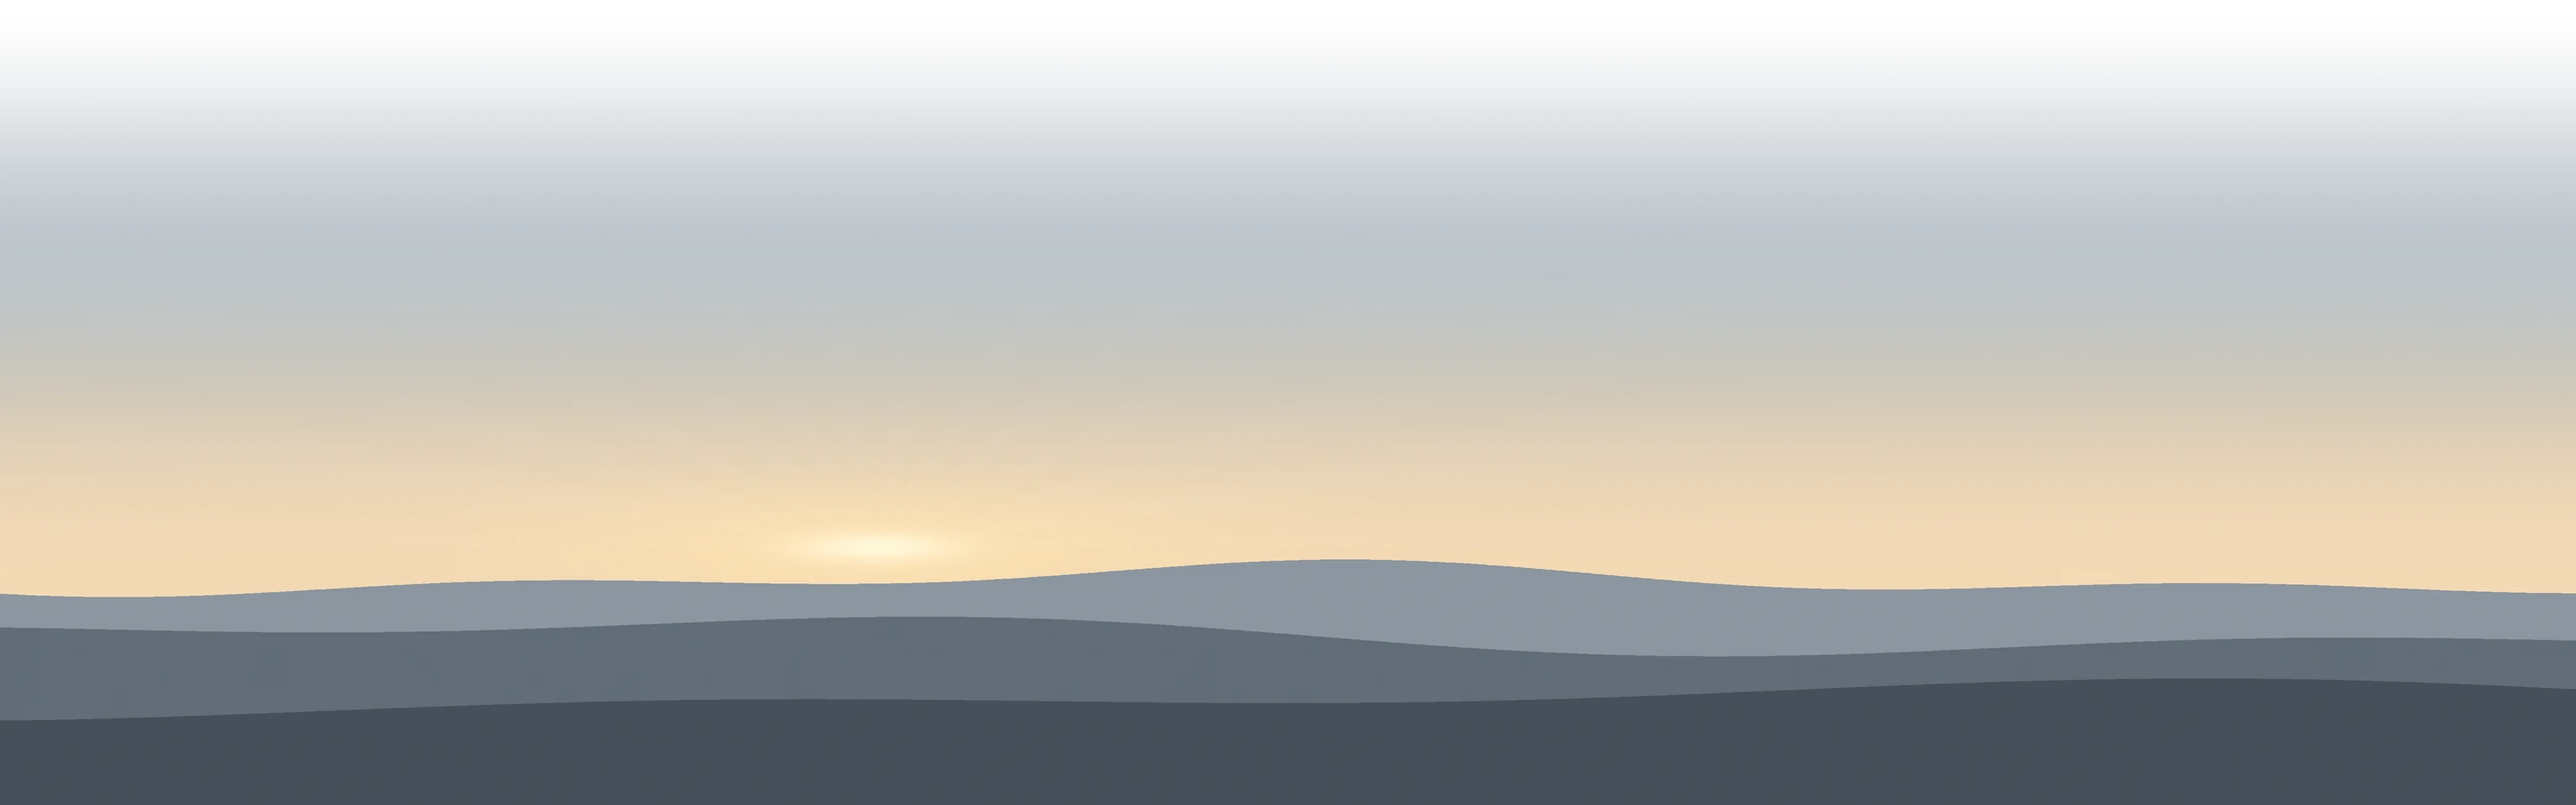
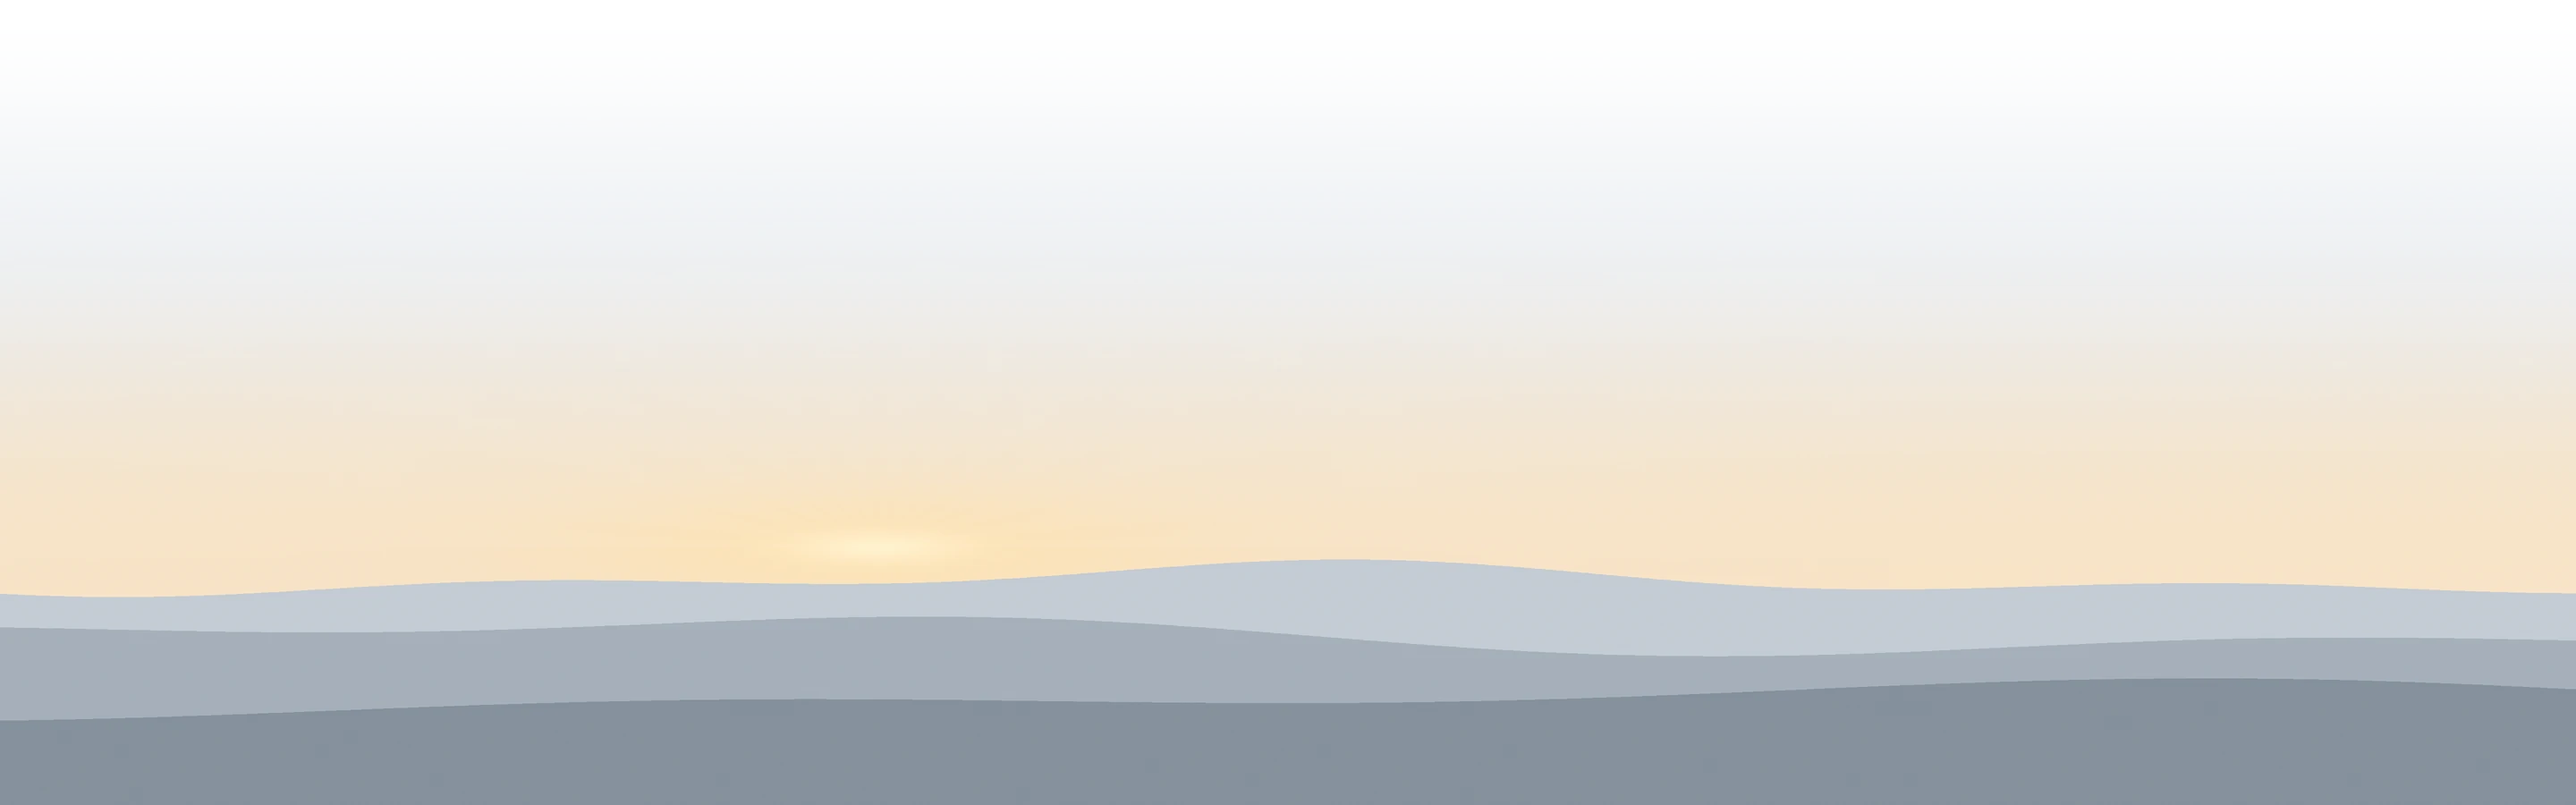
Hero light mode; new Wealth Guide image
Hero: flat light background, dark text, bordered inputs, no fog, gradients or dark panels. The
flag or sunrise art (sunrise re-rendered in a light palette) sits only behind the portrait and
fades out before the form. Thank-you portrait styles unchanged.
Wealth Guide: new image with The Faithful Steward bonus (kit-wealth-guide-v2.webp); migrate()
moves saved pages to it.

Claude-Session: https://claude.ai/code/session_01XCX3MvR2dkRhe8VonRWxub

diff --git a/src/template/styles/landing.css b/src/template/styles/landing.css
@@ -1622,48 +1622,78 @@
   color: rgba(255, 255, 255, 0.55);
 }
 
-/* ============ HERO: BRIGHT, SHARP, HIGH CONTRAST (September 2026) ============
-   A light slate studio backdrop instead of the deep brand color, no colored glow, crisp
-   high-resolution backgrounds (their fade is built into the image), one clean shadow on the
-   portrait, and a soft slate panel behind the form so every label keeps strong contrast. */
-.lp .hero {
-  background: radial-gradient(95% 90% at 28% 42%, #75818c 0%, #57626c 45%, #3f4850 100%);
+/* ============ HERO: LIGHT MODE, SHARP, HIGH CONTRAST (September 2026) ============
+   A flat light background with dark text: no fog, no gradients, no dark panels, no colored
+   glow. The flag or sunrise art (high resolution, fade built in) sits only behind the portrait
+   and fades out before the form. The thank-you page keeps its own portrait styles. */
+.lp .hero:not(.ty-portrait) {
+  background: #f4f5f7;
 }
-.lp .hero .hero-rays {
-  height: 66%;
-  -webkit-mask-image: linear-gradient(180deg, transparent 0, #000 18%, #000 100%);
-  mask-image: linear-gradient(180deg, transparent 0, #000 18%, #000 100%);
+.lp .hero:not(.ty-portrait) .hero-rays {
+  right: auto;
+  width: 60%;
+  height: 72%;
+  -webkit-mask-image:
+    linear-gradient(90deg, #000 62%, transparent 100%),
+    linear-gradient(180deg, transparent 0, #000 22%);
+  -webkit-mask-composite: source-in;
+  mask-image:
+    linear-gradient(90deg, #000 62%, transparent 100%),
+    linear-gradient(180deg, transparent 0, #000 22%);
+  mask-composite: intersect;
 }
-.lp .hero .hero-vig {
-  background: linear-gradient(
-    90deg,
-    rgba(47, 55, 62, 0) 44%,
-    rgba(47, 55, 62, 0.62) 58%,
-    rgba(47, 55, 62, 0.78) 100%
-  );
+.lp .hero:not(.ty-portrait) .hero-vig {
+  display: none;
 }
-.lp .hero-figure img {
-  filter: drop-shadow(0 16px 30px rgba(22, 27, 32, 0.3));
+.lp .hero:not(.ty-portrait) .hero-figure img {
+  filter: drop-shadow(0 12px 24px rgba(20, 24, 30, 0.2));
 }
-.lp .hero-form h1 {
-  text-shadow: 0 1px 2px rgba(0, 0, 0, 0.22);
+.lp .hero:not(.ty-portrait) .hero-form h1 {
+  color: var(--ink);
+  text-shadow: none;
+}
+.lp .hero:not(.ty-portrait) .fld label {
+  color: #2b2f3a;
+  text-shadow: none;
+}
+.lp .hero:not(.ty-portrait) .fld label .req {
+  color: var(--accent-ink);
+}
+.lp .hero:not(.ty-portrait) .fld input {
+  border-color: #c9ced8;
+}
+.lp .hero:not(.ty-portrait) .fld .msg {
+  color: #b3261e;
+}
+.lp .hero:not(.ty-portrait) .fld.is-err input {
+  border-color: #d93025;
+  box-shadow: 0 0 0 3px rgba(217, 48, 37, 0.18);
+}
+.lp .hero:not(.ty-portrait) .formnote {
+  background: #fdecea;
+  border-color: #f1b0a8;
+  color: #8a1c12;
+}
+.lp .hero:not(.ty-portrait) .formnote a,
+.lp .hero:not(.ty-portrait) .fine a {
+  color: #2b2f3a;
+}
+.lp .hero:not(.ty-portrait) .fine {
+  color: #5b6275;
 }
 @media (max-width: 900px) {
-  /* Stacked: the background art sits behind the portrait, the form sits on clean slate. */
-  .lp .hero {
-    background: #4a545d;
-  }
-  .lp .hero .hero-rays {
+  /* Stacked: the art sits behind the portrait only, the form sits on the plain light background. */
+  .lp .hero:not(.ty-portrait) .hero-rays {
     top: 0;
     bottom: auto;
+    width: 100%;
     height: 270px;
     -webkit-mask-image: linear-gradient(180deg, #000 55%, transparent 100%);
+    -webkit-mask-composite: source-over;
     mask-image: linear-gradient(180deg, #000 55%, transparent 100%);
+    mask-composite: add;
   }
-  .lp .hero .hero-vig {
-    background: none;
-  }
-  .lp .hero-figure {
+  .lp .hero:not(.ty-portrait) .hero-figure {
     background: none;
   }
 }

diff --git a/src/data/migrate.ts b/src/data/migrate.ts
@@ -76,6 +76,9 @@ const RETIRED_COPY: Record<string, string> = {
     "*Bonus silver starts at qualifying purchases of $50,000 in Revelation Gold Group premium coins, with 10% at $100,000 or more. Eligible products and expiration terms apply. Cannot be combined with other offers. Not financial advice.",
 };
 const RETIRED_OFFER_EYEBROW = /^plus!?\s*if you take action now\s*(…|\.{3})?$/i;
+const KIT_IMAGE_UPDATES: Record<string, string> = {
+  "/assets/rgg/kit-wealth-guide.webp": "/assets/rgg/kit-wealth-guide-v2.webp",
+};
 const HD_HERO_BG: Record<string, string> = {
   "/assets/rgg/hero-bg-flag.webp": "/assets/rgg/hero-bg-flag-hd.webp",
   "/assets/rgg/hero-bg-sunrise.webp": "/assets/rgg/hero-bg-sunrise-hd.webp",
@@ -122,6 +125,9 @@ function upgradeSection(s: Section): Section {
       return changed ? { ...s, props: { ...s.props, paragraphs: fixed, badges } } : s;
     }
     case "kit": {
+      // Retired guide images point at their current versions.
+      const image = KIT_IMAGE_UPDATES[s.props.image];
+      if (image) return upgradeSection({ ...s, props: { ...s.props, image } });
       // Biblical Stewardship Kit wording for the Faithful Steward guide.
       if (s.props.image !== STEWARD.src) return s;
       const props = { ...s.props };

diff --git a/src/template/kits.ts b/src/template/kits.ts
@@ -30,7 +30,7 @@ export const KIT_OPTIONS: KitOption[] = [
   {
     id: "wealth-guide",
     label: "2026 Wealth Protection Guide (Faithful Steward bonus)",
-    src: "/assets/rgg/kit-wealth-guide.webp",
+    src: "/assets/rgg/kit-wealth-guide-v2.webp",
     alt: "The 2026 Wealth Protection Guide and Magazine, with The Faithful Steward guide as a bonus",
     width: 2000,
     height: 1333,

diff --git a/skills/hero-bg-sunrise.py b/skills/hero-bg-sunrise.py
@@ -7,7 +7,7 @@ W, H = OW * S, OH * S
 yy, xx = np.mgrid[0:H, 0:W].astype(np.float32)
 xn, yn = xx / W, yy / H
 def hexc(h): return np.array([int(h[i:i+2], 16) for i in (1, 3, 5)], np.float32) / 255
-top, mid, low = hexc("#5B6B7A"), hexc("#A9B7C2"), hexc("#F3D9B5")
+top, mid, low = hexc("#DCE3EA"), hexc("#E9EDF1"), hexc("#F8E4C8")
 horizon = 0.70
 t = np.clip(yn / horizon, 0, 1)
 def sm(x): return x * x * (3 - 2 * x)
@@ -36,9 +36,9 @@ def ridge(base, amp, freq, phase, color):
         pts.append((i, y * H))
     pts.append((W, H))
     d.polygon(pts, fill=color)
-ridge(horizon + 0.02, 0.025, 1.3, 0.1, (140, 150, 160))
-ridge(horizon + 0.09, 0.030, 0.9, 0.55, (98, 109, 120))
-ridge(horizon + 0.17, 0.028, 0.7, 0.2, (70, 80, 90))
+ridge(horizon + 0.02, 0.025, 1.3, 0.1, (196, 204, 212))
+ridge(horizon + 0.09, 0.030, 0.9, 0.55, (166, 176, 187))
+ridge(horizon + 0.17, 0.028, 0.7, 0.2, (134, 145, 157))
 img = img.resize((OW, OH), Image.LANCZOS)
 arr = np.asarray(img).astype(np.float32)
 arr += np.random.default_rng(3).normal(0, 0.8, arr.shape)  # dither, no banding
